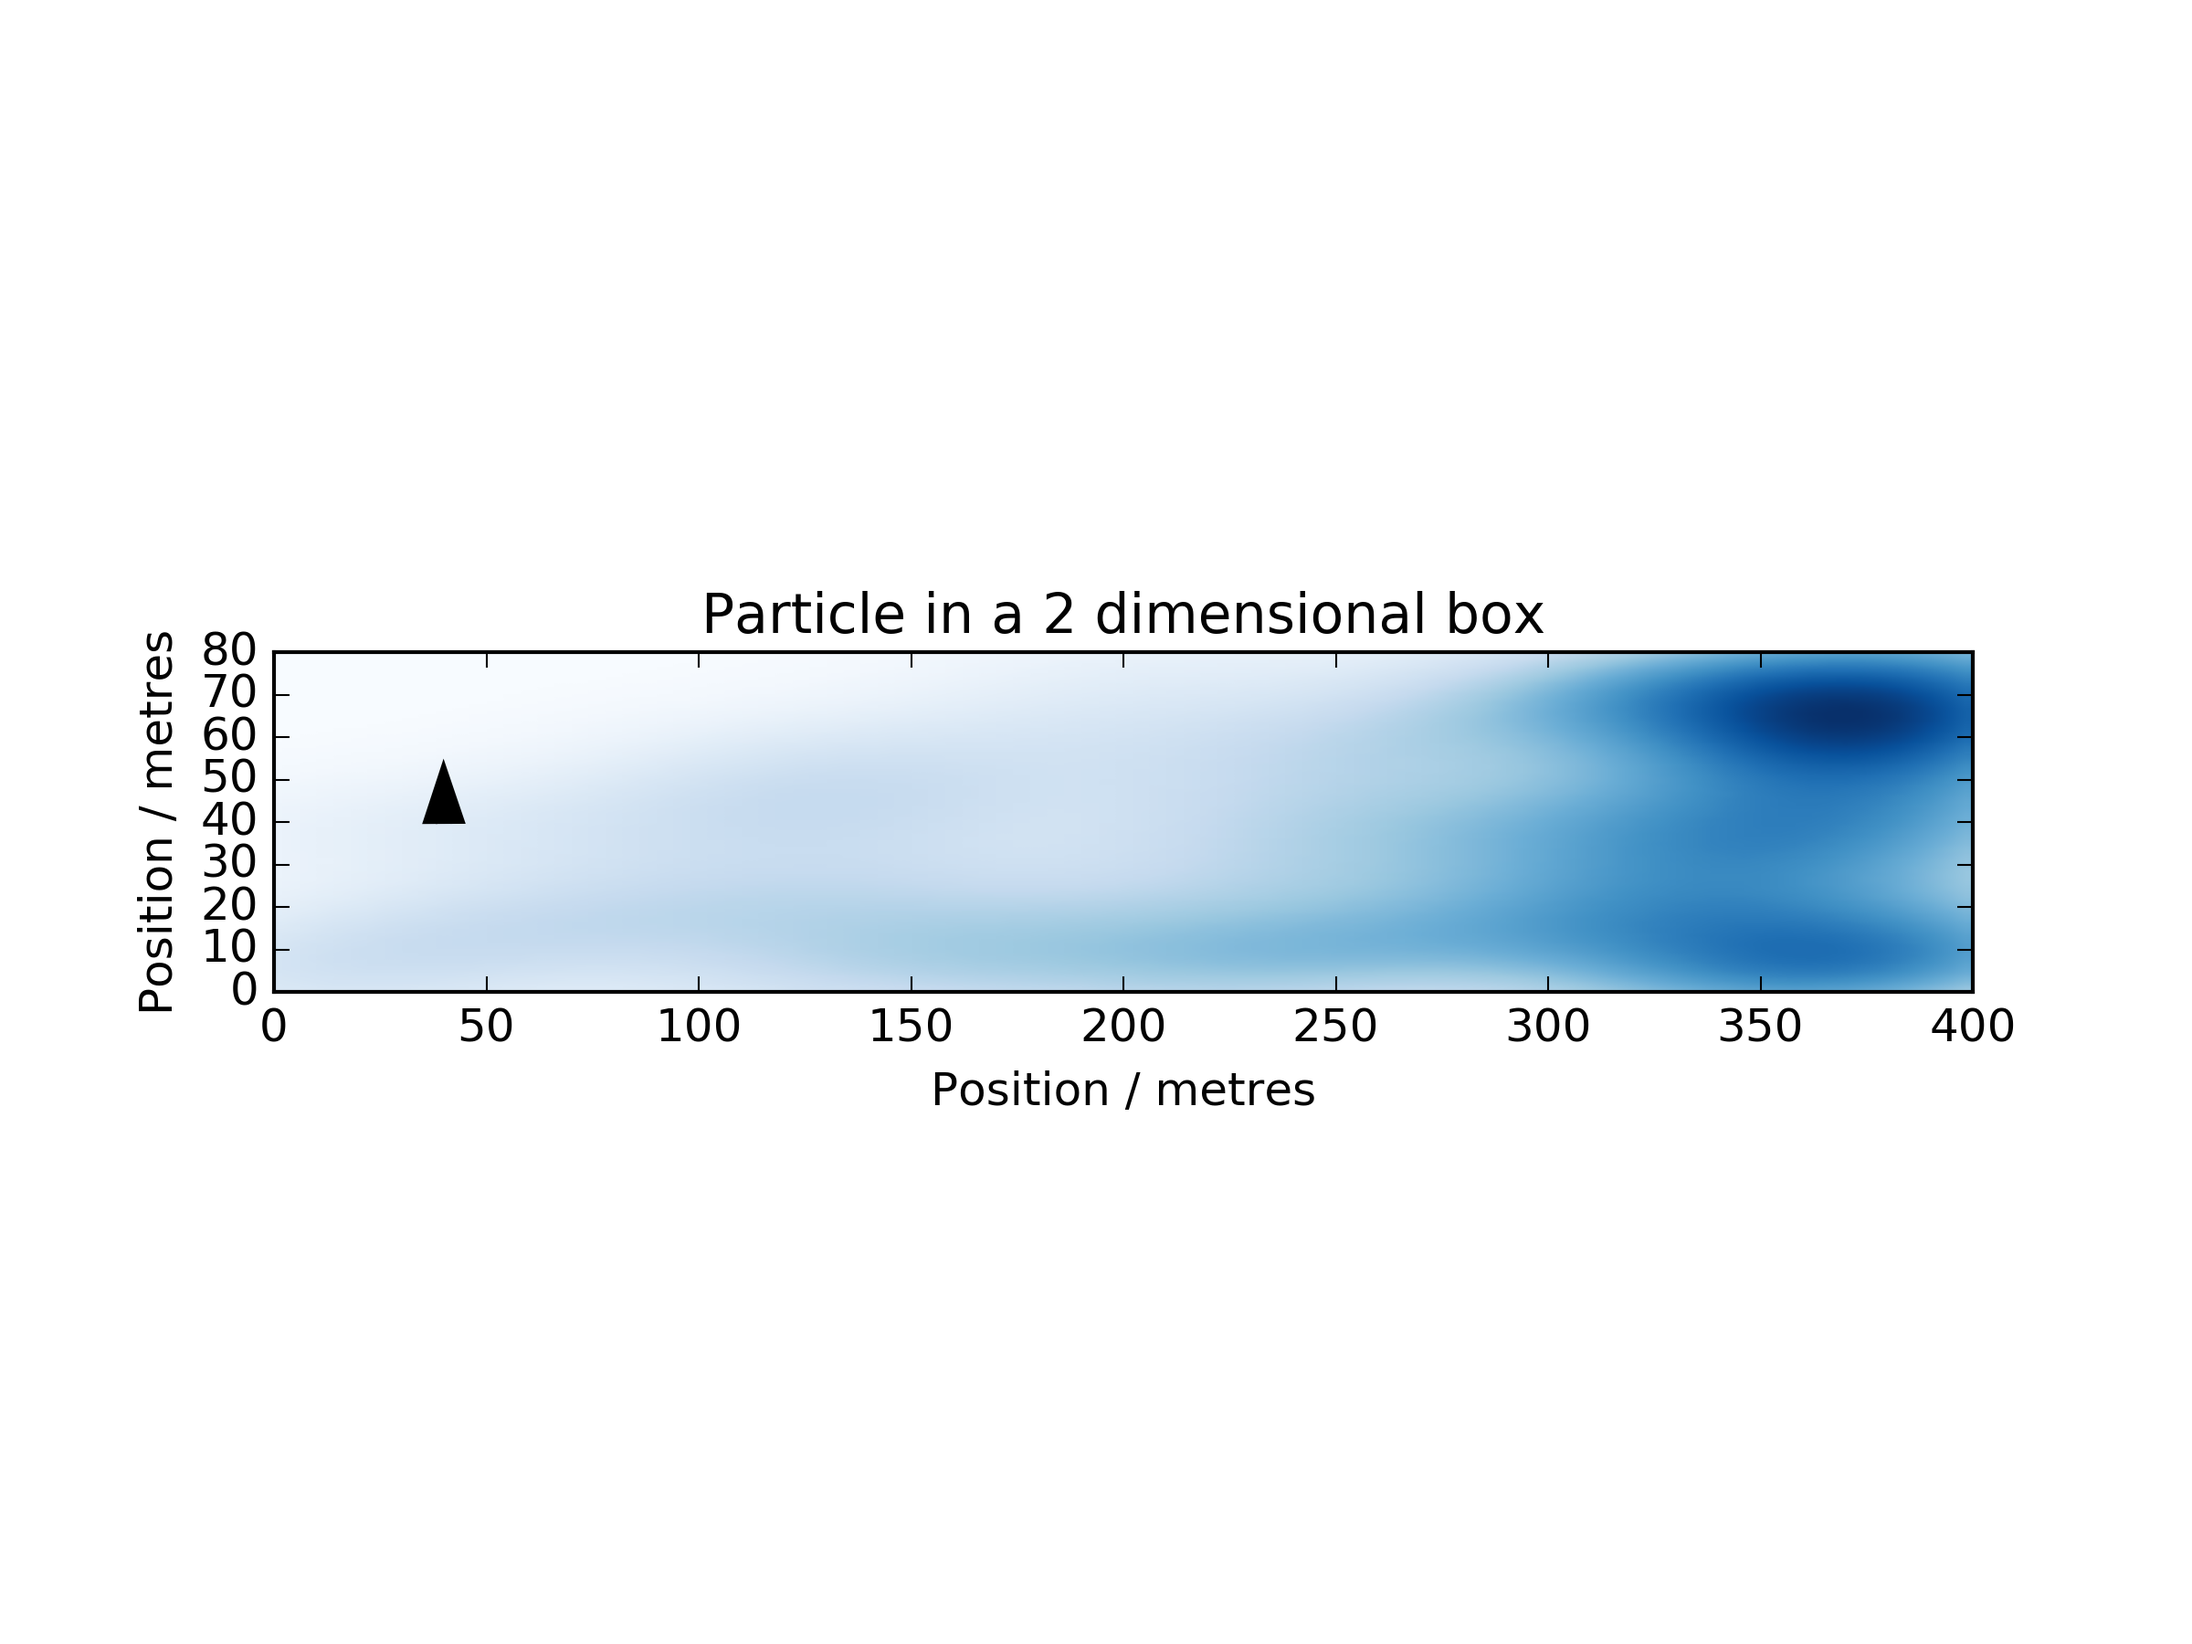
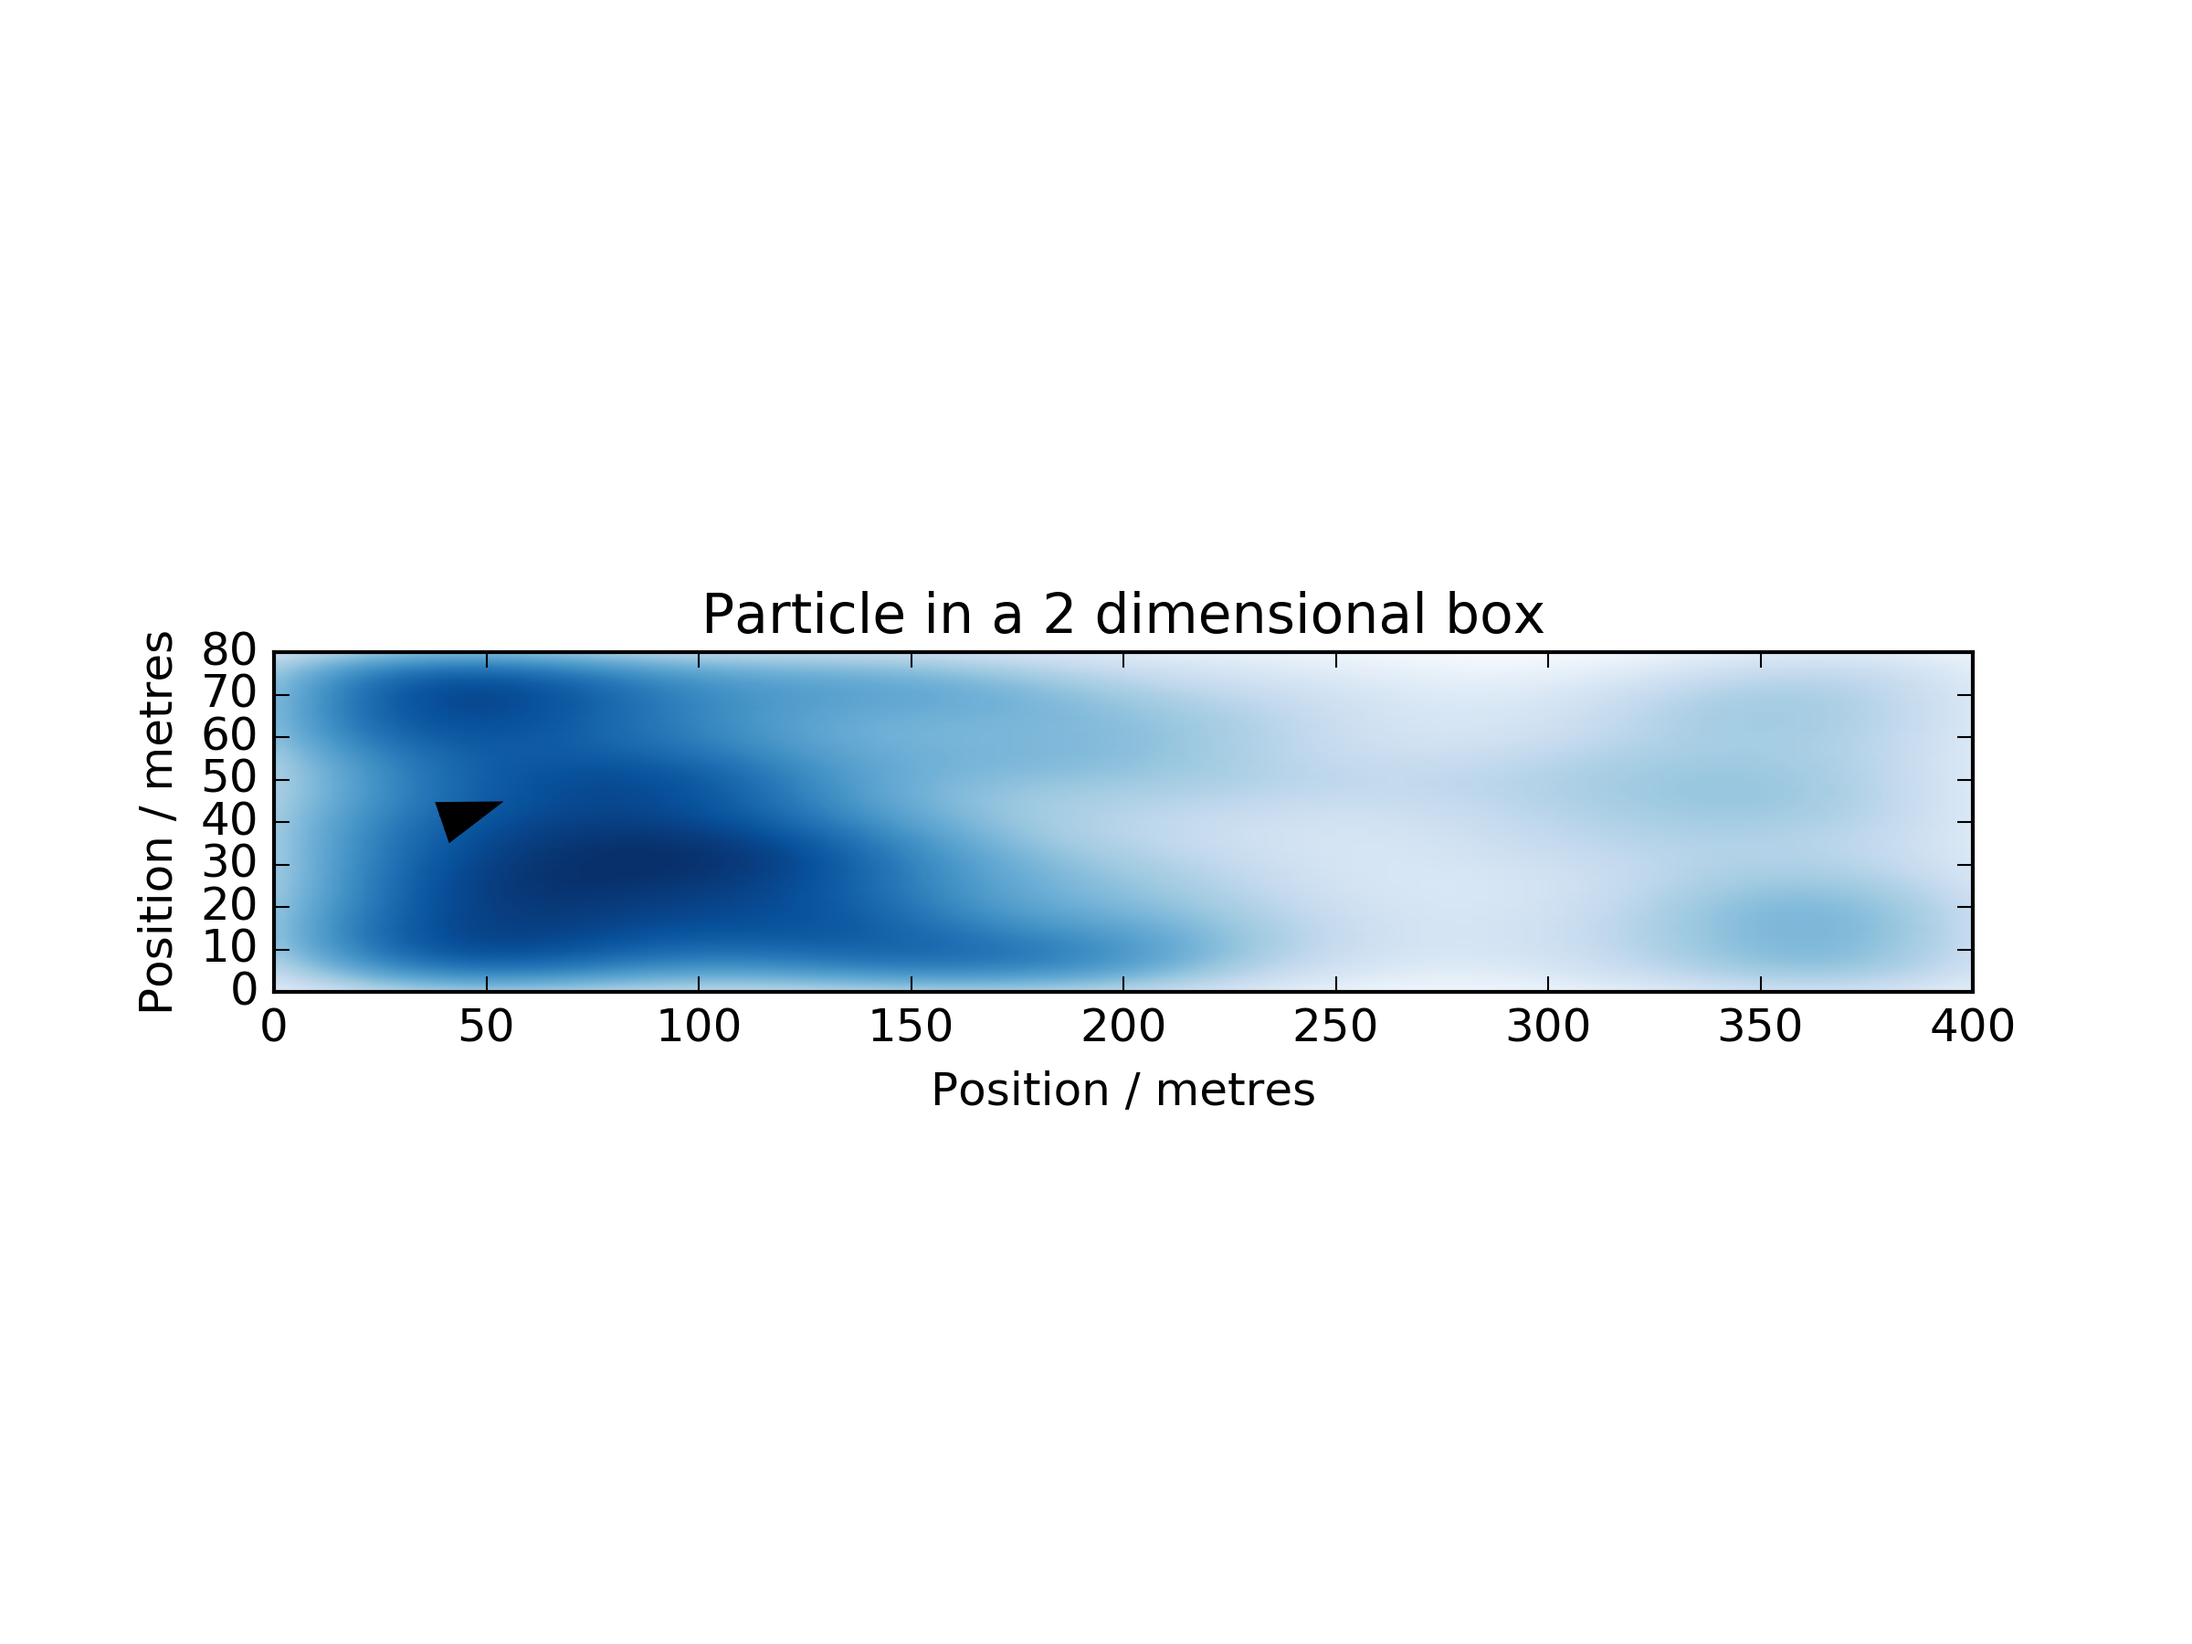
plot timesliced lightcone

Changed region(s): [[0.125, 0.3733, 0.9062, 0.6222]]

diff --git a/plotLightCone.py b/plotLightCone.py
@@ -23,7 +23,7 @@ class Arrow3D(FancyArrowPatch):
         FancyArrowPatch.draw(self, renderer)
 
 
-def log_volume_fractions(walks):
+def log_volume_fractions2(walks):
     'return log_volume_fractions on a set of random walks'
     endpoints = array([walk[-1] for walk in walks])
     length = int(0.75 * len(walks[0]))
@@ -31,6 +31,43 @@ def log_volume_fractions(walks):
     kernel = gaussian_kde(points.T)
     logpdfs = -array([kernel.pdf(endpoints.T)]).T
     return logpdfs, kernel
+
+def log_volume_fractions_slice(walks):
+    'compute log_volume_fractions and step through time'
+    print array(walks).shape
+    points = array(walks).reshape((-1, 2))
+    print points
+    print points.shape
+
+    for i in range(0, 400, 5):
+        points = array([walk[i] for walk in walks]).reshape((-1,2))
+        kernel = gaussian_kde(points.T)
+        fig = plt.figure()
+        ax = fig.add_subplot(111, aspect = 'equal')
+        xx, yy = np.mgrid[0:400:200j, 0:80:200j]
+        f = np.reshape(kernel(np.vstack([xx.ravel(), yy.ravel()])).T, xx.shape)
+        ax.set_xlim(0, 400)
+        ax.set_ylim(0, 80)
+        ax.imshow(np.rot90(f), cmap='Blues', extent=[0, 400, 0, 80])
+        plt.show()
+    
+    endpoints = array([walk[-1] for walk in walks])
+    length = int(0.75 * len(walks[0]))
+    points = array([walk[length:] for walk in walks]).reshape((-1,2))
+    kernel = gaussian_kde(points.T)
+    logpdfs = -array([kernel.pdf(endpoints.T)]).T
+    return logpdfs, kernel
+
+
+def log_volume_fractions(walks):
+    'compute log_volume_fractions using timeslices'
+    kernels = []
+    for i in range(len(walks[0])):
+        points = array([walk[i] for walk in walks]).reshape((-1,2))
+        kernels.append(gaussian_kde(points.T))
+    print len(kernels)
+
+    
 
 
 def causal(cur_macrostate, num_sample_paths, environment):

diff --git a/agent.py b/agent.py
@@ -36,15 +36,33 @@ def log_volume_fractions2(walks):
     return logpdfs
 
 
-def log_volume_fractions(walks):
+def log_volume_fractions_3d(walks):
     'compute log_volume_fractions in 3D'
     walks = array([[list(w) + [i] for i, w in enumerate(ws)] for ws in walks])
     kernel = gaussian_kde(walks.reshape((-1, 3)).T)
     length = len(walks[0]) / 2
     logpdfs = -array([kernel.pdf(w[length:].T) for w in walks]).sum(axis=1)
-    #print list(zip(logpdfs, [list(w[-1]) for w in walks]))
     return logpdfs
 
+
+def log_volume_fractions(walks):
+    'compute log_volume_fractions by aggregating all points together'
+    print array(walks).shape
+    points = array(walks).reshape((-1, 2))
+    print points
+    print points.shape
+    kernel = gaussian_kde(points.T)
+    
+    fig = plt.figure()
+    ax = fig.add_subplot(111, aspect = 'equal')
+    xx, yy = np.mgrid[0:400:200j, 0:80:200j]
+    f = np.reshape(kernel(np.vstack([xx.ravel(), yy.ravel()])).T, xx.shape)
+    ax.set_xlim(0, 400)
+    ax.set_ylim(0, 80)
+    ax.imshow(np.rot90(f), cmap='Blues', extent=[0, 400, 0, 80])
+    plt.show()
+    plt.pause(0.001)
+    input()
 
 
     
